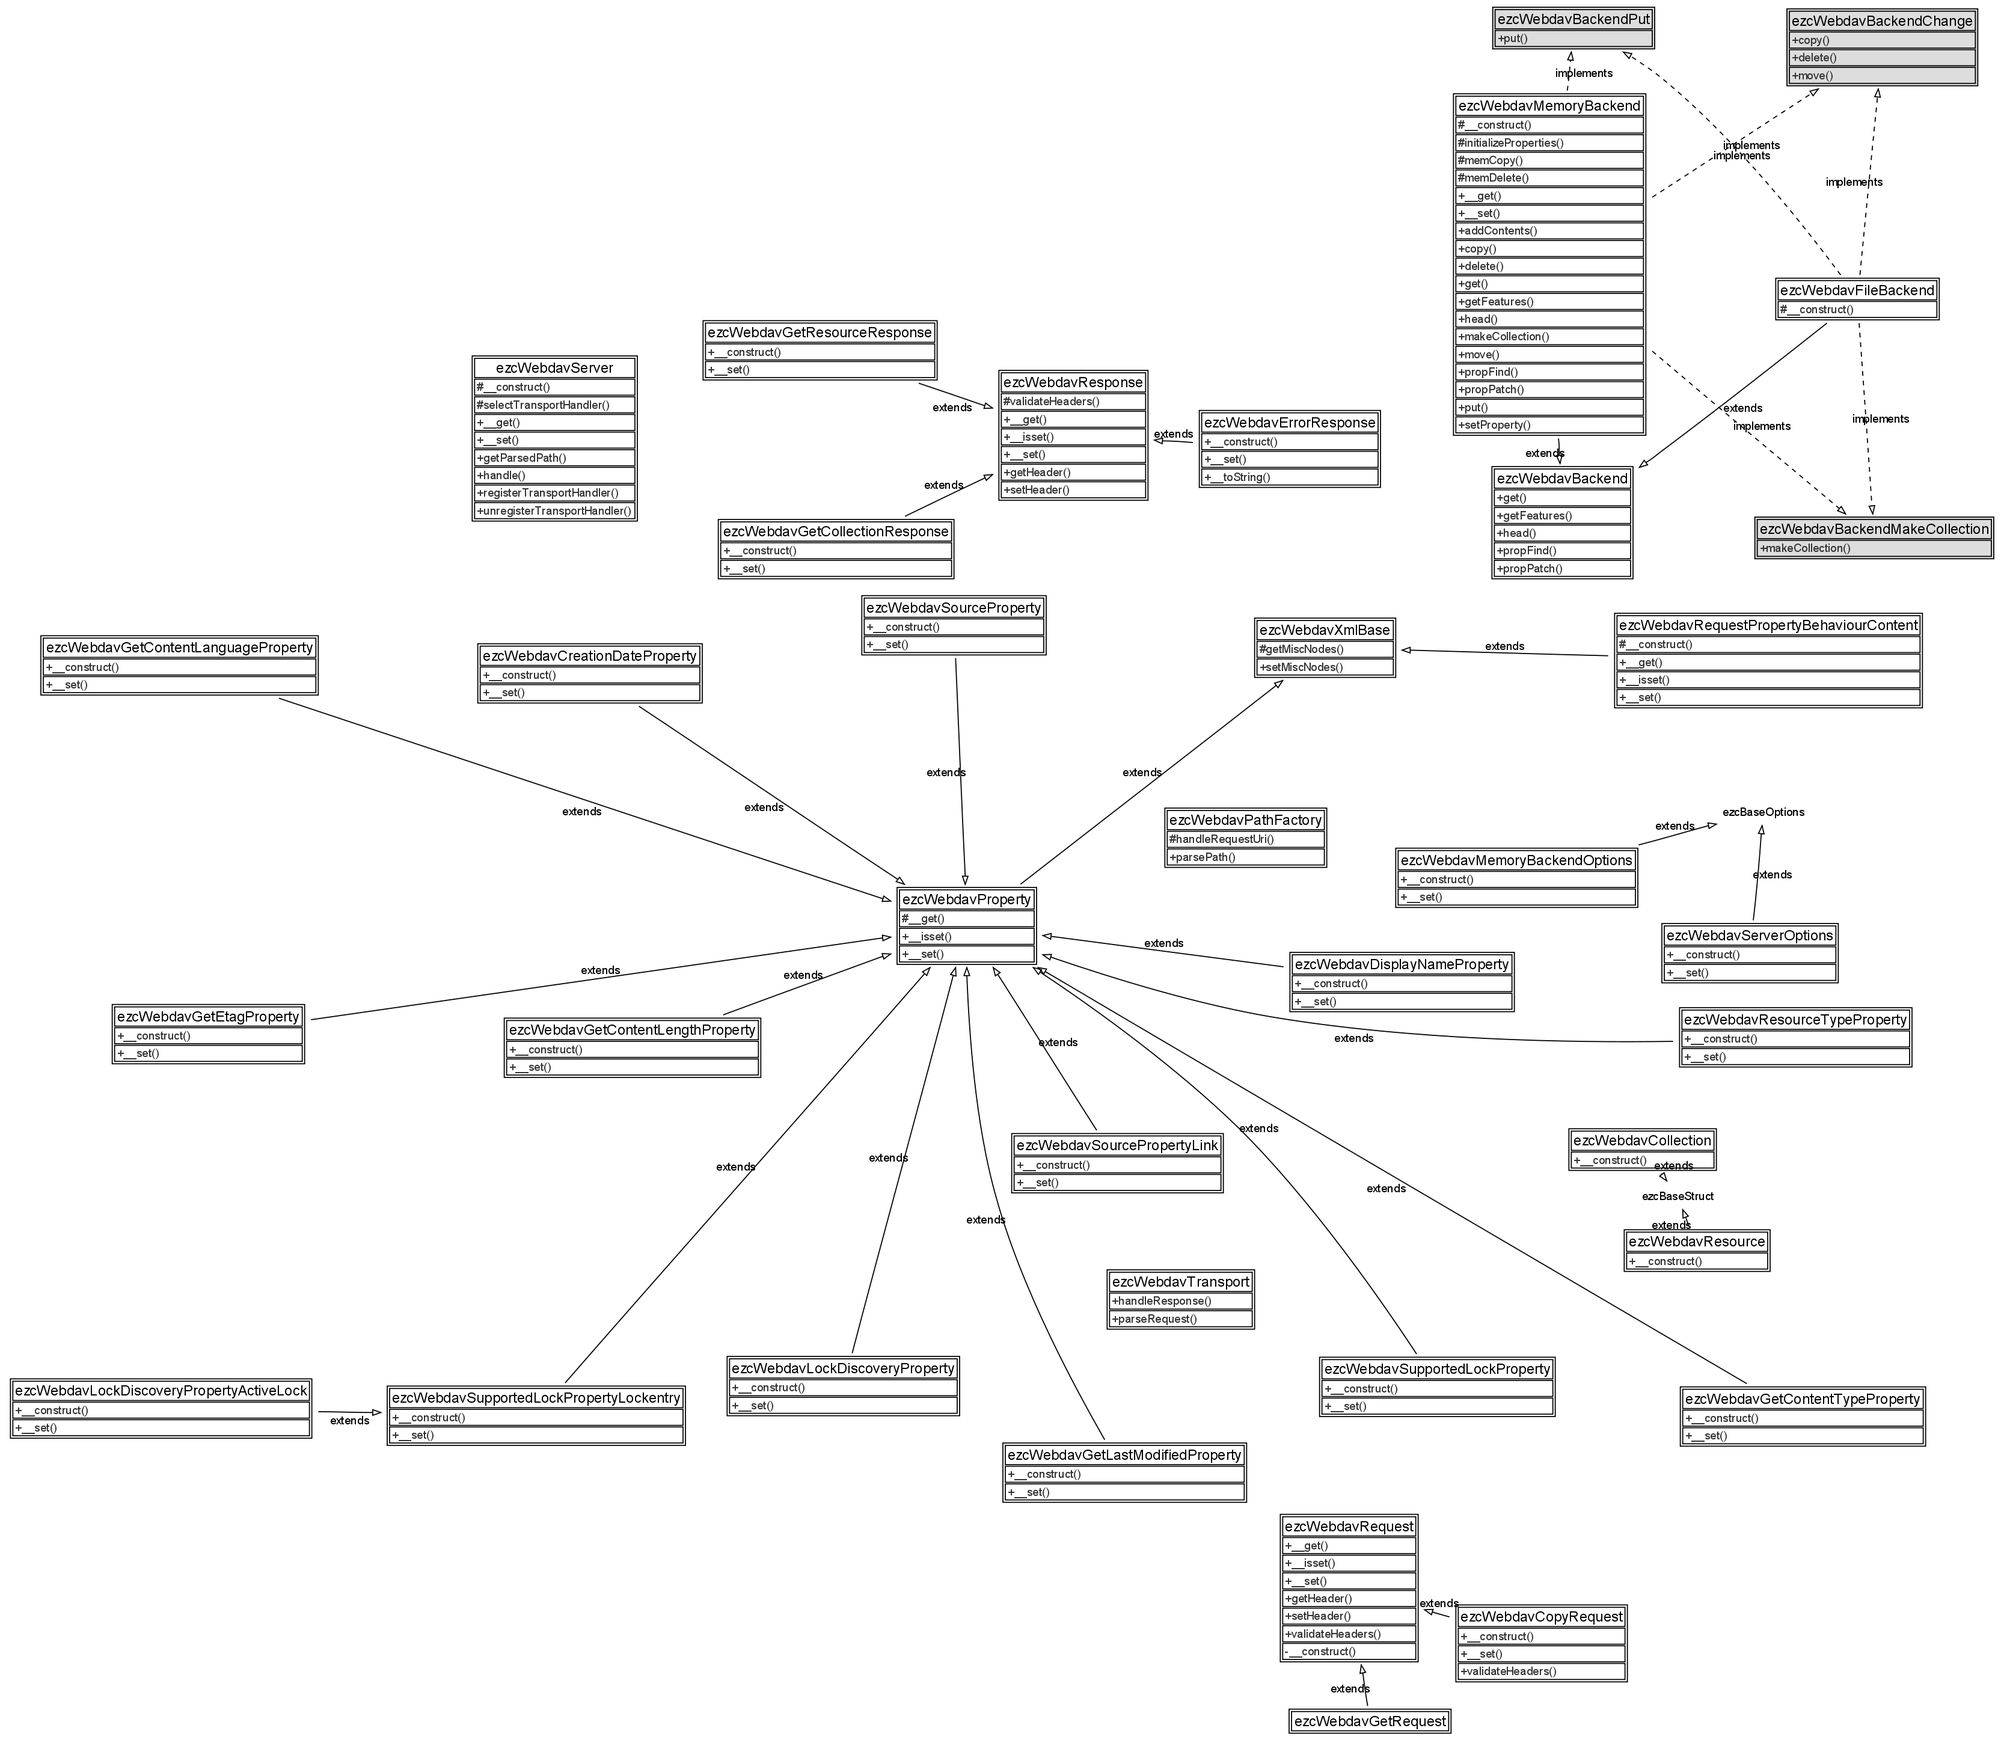
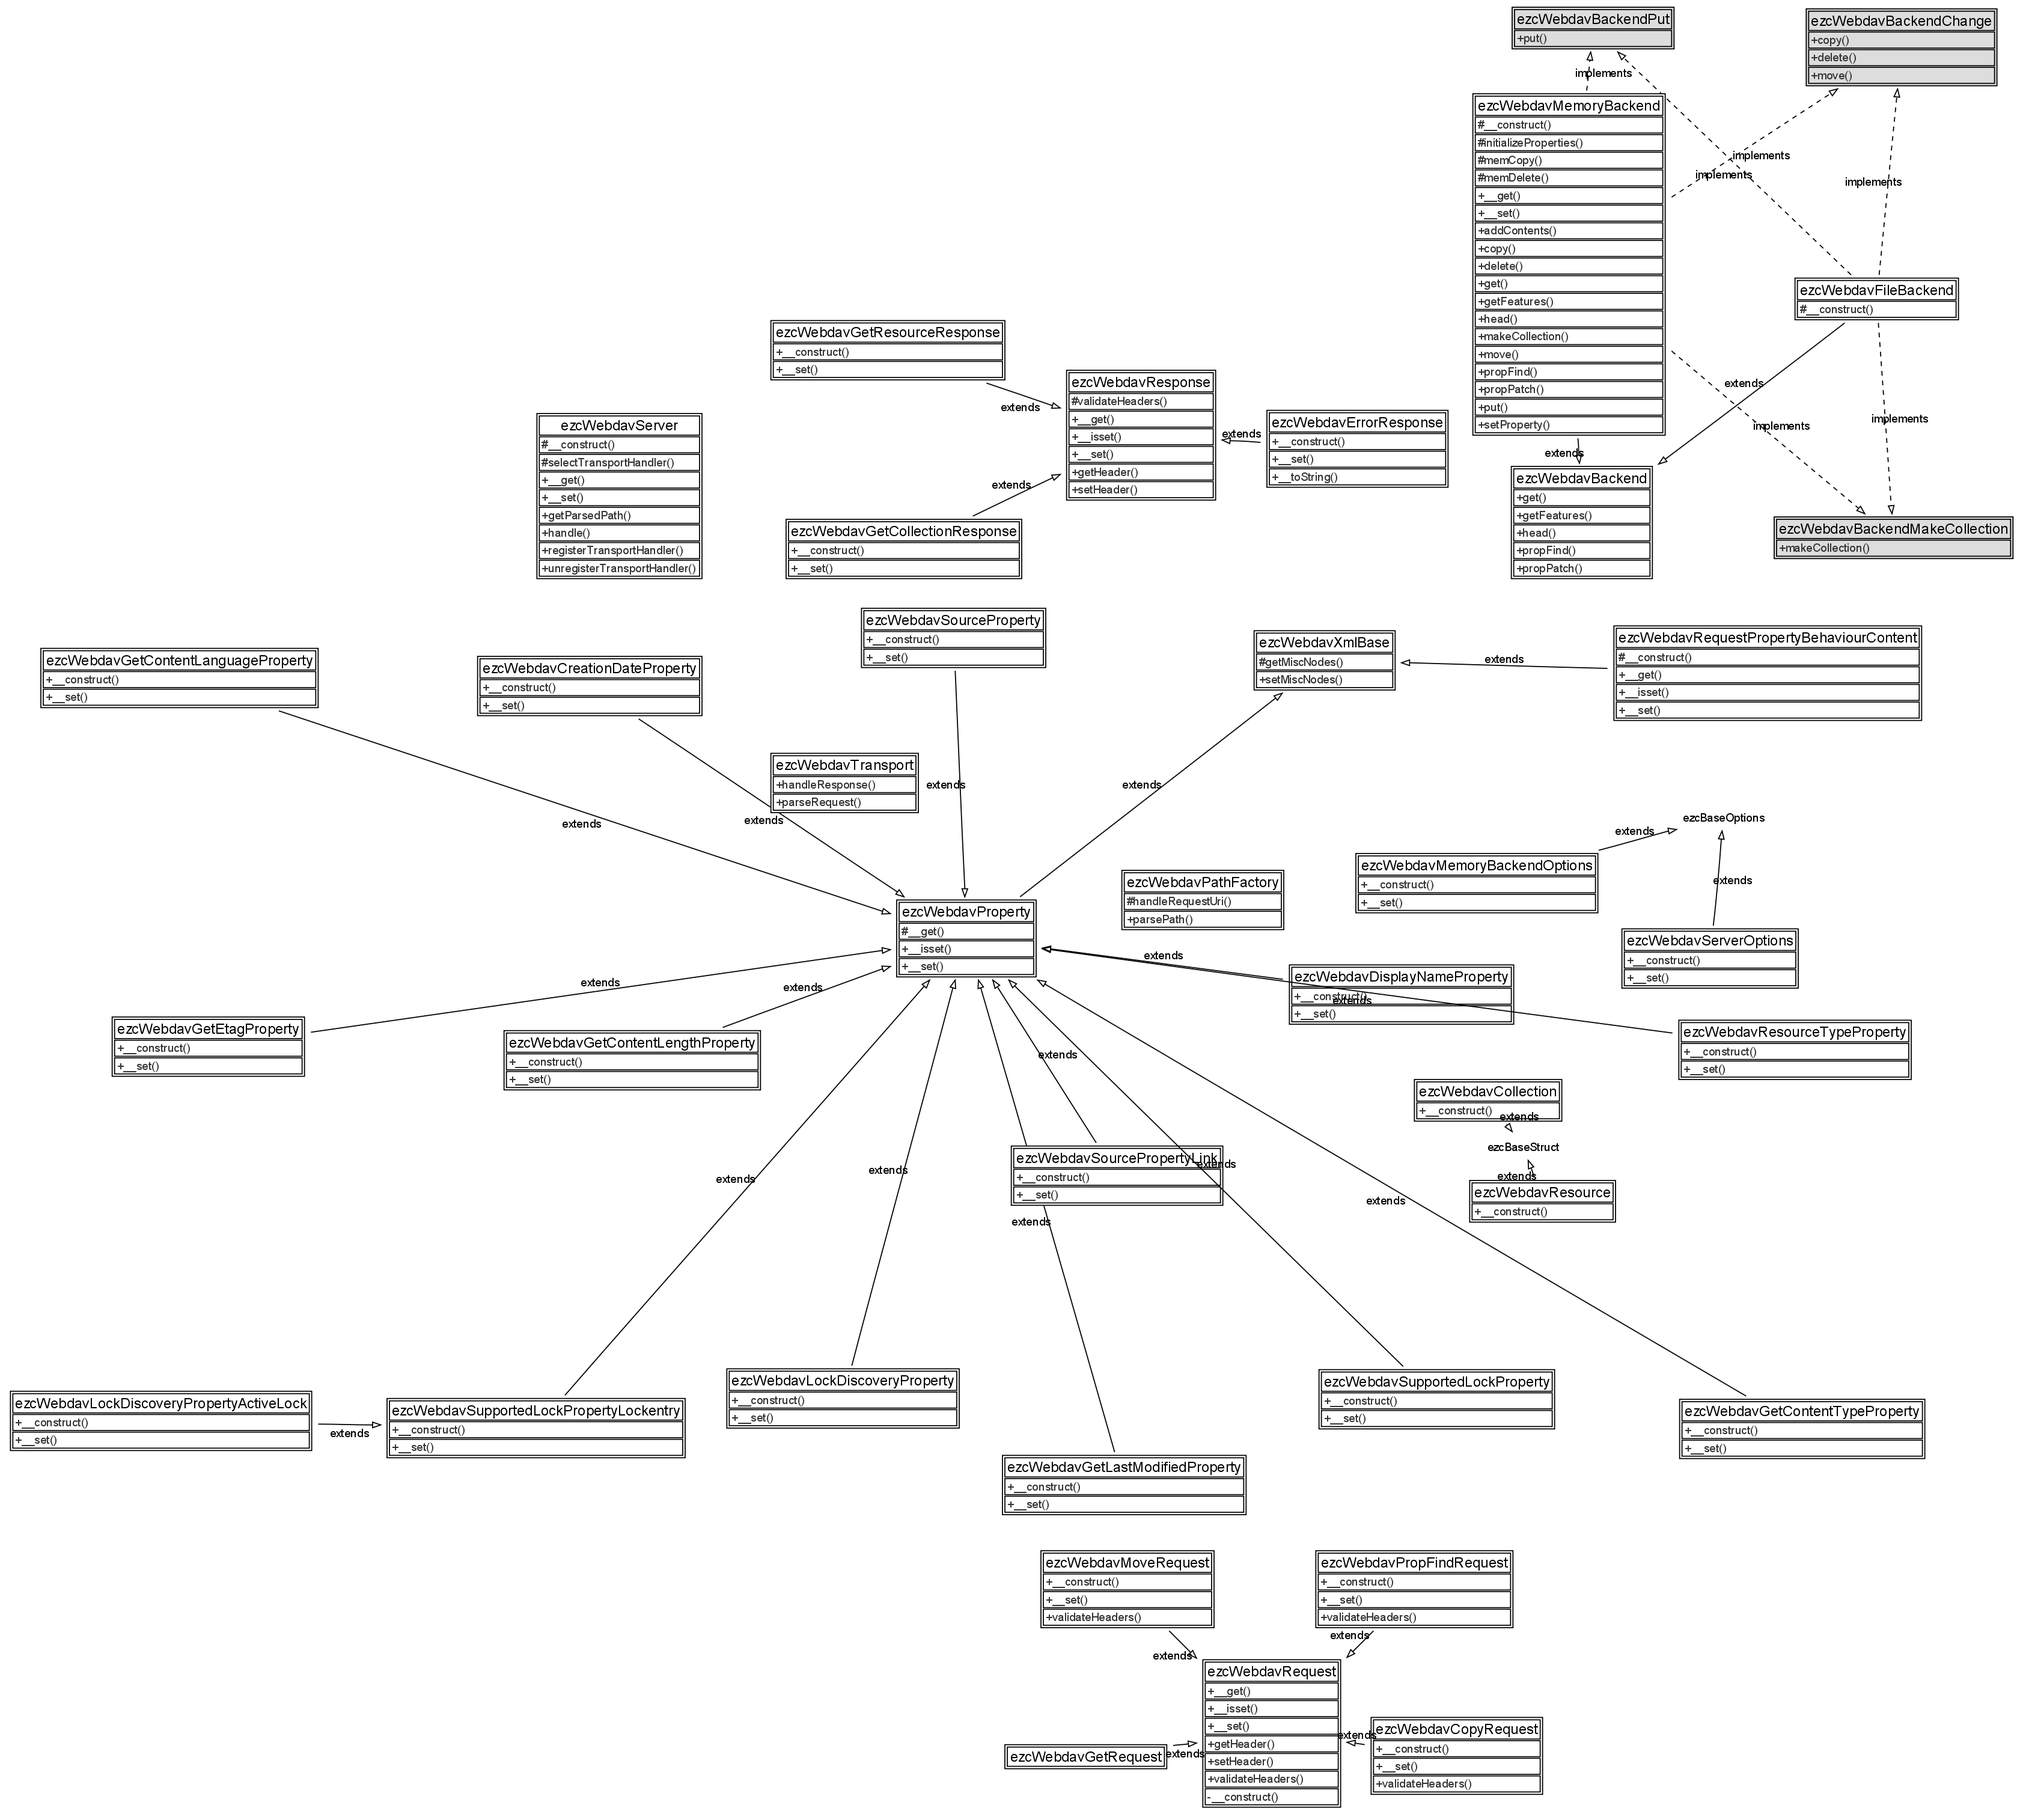
- Added MOVE request.
git-svn-id: http://svn.ez.no/svn/ezcomponents/trunk@6090 bc0e7bdc-f0fc-0310-8ff6-f601c06e1256

diff --git a/Webdav/src/request/move.php b/Webdav/src/request/move.php
@@ -1,0 +1,142 @@
+<?php
+/**
+ * File containing the ezcWebdavMoveRequest class.
+ *
+ * @package Webdav
+ * @version //autogentag//
+ * @copyright Moveright (C) 2005-2007 eZ systems as. All rights reserved.
+ * @license http://ez.no/licenses/new_bsd New BSD License
+ */
+
+/**
+ * Request class generated by a COPY request.
+ * This request represents the WebDAV COPY action.
+ *
+ * Required headers for this request are:
+ * - Destination
+ *
+ * Optional headers for this request are:
+ * - Overwrite (default: 'T')
+ * - Depth (default: ezcWebdavRequest::DEPTH_ZERO)
+ * 
+ * @package Webdav
+ * @version //autogen//
+ * @copyright Moveright (C) 2005-2007 eZ systems as. All rights reserved.
+ * @author  
+ * @license http://ez.no/licenses/new_bsd New BSD License
+ *
+ * @property ezcWebdavRequestPropertyBehaviourContent $propertyBehaviour
+ *           Contains the <propertybehavior /> element, if submitted with the
+ *           request. If not, this property is null.
+ */
+class ezcWebdavMoveRequest extends ezcWebdavRequest
+{
+    /**
+     * Creates a new COPY request object.
+     * Sets the defaults for the optional headers for this request.
+     * 
+     * @param string $requestUri
+     * @param string $destination
+     * @return void
+     */
+    public function __construct( $requestUri, $destination )
+    {
+        // Set from constructor values
+        parent::__construct( $requestUri );
+        $this->headers['Destination'] = $destination;
+
+        // Set header defaults
+        $this->headers['Overwrite'] = 'T';
+        $this->headers['Depth']     = ezcWebdavRequest::DEPTH_ZERO;
+
+        // Create properties
+        $this->properties['propertyBehaviour'] = null;
+    }
+
+    /**
+     * Sets a property.
+     * This method is called when an property is to be set.
+     * 
+     * @param string $propertyName The name of the property to set.
+     * @param mixed $propertyValue The property value.
+     * @ignore
+     *
+     * @throws ezcBasePropertyNotFoundException
+     *         if the given property does not exist.
+     * @throws ezcBaseValueException
+     *         if the value to be assigned to a property is invalid.
+     * @throws ezcBasePropertyPermissionException
+     *         if the property to be set is a read-only property.
+     */
+    public function __set( $propertyName, $propertyValue )
+    {
+        switch ( $propertyName )
+        {
+            case 'propertyBehaviour':
+                if ( ( $propertyValue instanceof ezcWebdavRequestPropertyBehaviourContent ) === false && $propertyValue !== null )
+                {
+                    throw new ezcBaseValueException( $propertyName, $propertyValue, 'ezcWebdavRequestPropertyBehaviourContent' );
+                }
+                break;
+            default:
+                parent::__set( $propertyName, $propertyValue );
+        }
+        $this->properties[$propertyName] = $propertyValue;
+    }
+
+    /**
+     * Validates the headers set in this request.
+     * This method validates that all required headers are available and that
+     * all feasible headers for this request have valid values.
+     *
+     * @return void
+     *
+     * @throws ezcWebdavMissingHeaderException
+     *         if a required header is missing.
+     * @throws ezcWebdavInvalidHeaderException
+     *         if a header is present, but its content does not validate.
+     */
+    public function validateHeaders()
+    {
+        if ( isset( $this->headers['Destination'] ) === false )
+        {
+            throw new ezcWebdavMissingHeaderException( 'Destination' );
+        }
+
+        if ( isset( $this->headers['Overwrite'] ) === false )
+        {
+            throw new ezcWebdavMissingHeaderException( 'Overwrite' );
+        }
+
+        if ( $this->headers['Overwrite'] !== 'T' && $this->headers['Overwrite'] !== 'F' )
+        {
+            throw new ezcWebdavInvalidHeaderException(
+                'Overwrite',
+                $this->headers['Overwrite'],
+                "'T' or 'F'"
+            );
+        }
+        
+        if ( isset( $this->headers['Depth'] ) === false )
+        {
+            throw new ezcWebdavMissingHeaderException( 'Depth' );
+        }
+
+        if ( $this->headers['Depth'] !== ezcWebdavRequest::DEPTH_ZERO
+            && $this->headers['Depth'] !== ezcWebdavRequest::DEPTH_ONE 
+            && $this->headers['Depth'] !== ezcWebdavRequest::DEPTH_INFINITY )
+        {
+
+            throw new ezcWebdavInvalidHeaderException(
+                'Depth',
+                $this->headers['Depth'],
+                'ezcWebdavRequest::DEPTH_ZERO, ezcWebdavRequest::DEPTH_ONE or ezcWebdavRequest::DEPTH_INFINITY'
+            );
+        }
+
+        // Validate common HTTP/WebDAV headers
+        parent::validateHeaders();
+    }
+}
+
+?>

diff --git a/Webdav/tests/request_move_test.php b/Webdav/tests/request_move_test.php
@@ -1,0 +1,117 @@
+<?php
+/**
+ * Basic test cases for the path factory class.
+ *
+ * @package Webdav
+ * @subpackage Tests
+ * @version //autogentag//
+ * @copyright Moveright (C) 2005-2007 eZ systems as. All rights reserved.
+ * @license http://ez.no/licenses/new_bsd New BSD License
+ */
+
+/**
+ * Reqiuire base test
+ */
+require_once 'request_test.php';
+
+/**
+ * Tests for ezcWebdavPathFactory class.
+ * 
+ * @package Webdav
+ * @subpackage Tests
+ */
+class ezcWebdavMoveRequestTest extends ezcWebdavRequestTestCase
+{
+    public static function suite()
+    {
+		return new PHPUnit_Framework_TestSuite( __CLASS__ );
+    }
+
+    protected function setUp()
+    {
+        $this->className = 'ezcWebdavMoveRequest';
+        $this->constructorArguments = array(
+            '/foo', '/bar'
+        );
+        $this->defaultValues = array(
+            'propertyBehaviour' => null,
+        );
+        $this->workingValues = array(
+            'propertyBehaviour' => new ezcWebdavRequestPropertyBehaviourContent(),
+        );
+        $this->failingValues = array(
+            'propertyBehaviour' => array(
+                23,
+                23.34,
+                true,
+                false,
+                array( 23, 42 ),
+                new stdClass(),
+            ),
+        );
+    }
+
+    public function testValidateHeadersSuccess()
+    {
+        $req = new ezcWebdavMoveRequest( '/foo', '/bar' );
+
+        $req->setHeader( 'Destination', '/foo/bar' );
+        $req->validateHeaders();
+
+        $req->setHeader( 'Overwrite', 'F' );
+        $req->validateHeaders();
+        
+        $req->setHeader( 'Overwrite', 'T' );
+        $req->validateHeaders();
+
+        $req->setHeader( 'Depth', ezcWebdavMoveRequest::DEPTH_ONE );
+        $req->validateHeaders();
+
+        $req->setHeader( 'Depth', ezcWebdavMoveRequest::DEPTH_INFINITY );
+        $req->validateHeaders();
+
+        $req->setHeader( 'Depth', ezcWebdavMoveRequest::DEPTH_ZERO );
+        $req->validateHeaders();
+    }
+
+    public function testValidateHeadersFailure()
+    {
+        $req = new ezcWebdavMoveRequest( '/foo', '/bar' );
+
+        $req->setHeader( 'Overwrite', null );
+        try
+        {
+            $req->validateHeaders();
+            $this->fail( 'Exception not thrown on missing Overwrite header.' );
+        }
+        catch ( ezcWebdavMissingHeaderException $e ) {}
+        
+        $req->setHeader( 'Overwrite', 'A' );
+        try
+        {
+            $req->validateHeaders();
+            $this->fail( 'Exception not thrown on invalid Overwrite header.' );
+        }
+        catch ( ezcWebdavInvalidHeaderException $e ) {}
+        // Fix this problem to test others
+        $req->setHeader( 'Overwrite', 'T' );
+        
+        $req->setHeader( 'Depth', null );
+        try
+        {
+            $req->validateHeaders();
+            $this->fail( 'Exception not thrown on missing Depth header.' );
+        }
+        catch ( ezcWebdavMissingHeaderException $e ) {}
+
+        $req->setHeader( 'Depth', 'A' );
+        try
+        {
+            $req->validateHeaders();
+            $this->fail( 'Exception not thrown on invalid Depth header.' );
+        }
+        catch ( ezcWebdavInvalidHeaderException $e ) {}
+    }
+}
+
+?>

diff --git a/Webdav/src/webdav_autoload.php b/Webdav/src/webdav_autoload.php
@@ -44,7 +44,9 @@ return array(
     'ezcWebdavLockDiscoveryPropertyActiveLock' => 'Webdav/properties/lockdiscovery_activelock.php',
     'ezcWebdavMemoryBackend'                   => 'Webdav/backend/memory.php',
     'ezcWebdavMemoryBackendOptions'            => 'Webdav/options/backend_memory_options.php',
+    'ezcWebdavMoveRequest'                     => 'Webdav/request/move.php',
     'ezcWebdavPathFactory'                     => 'Webdav/path_factory.php',
+    'ezcWebdavPropFindRequest'                 => 'Webdav/request/propfind.php',
     'ezcWebdavRequestPropertyBehaviourContent' => 'Webdav/request/content/property_behaviour.php',
     'ezcWebdavResource'                        => 'Webdav/structs/resource.php',
     'ezcWebdavResourceTypeProperty'            => 'Webdav/properties/resourcetype.php',

diff --git a/Webdav/tests/suite.php b/Webdav/tests/suite.php
@@ -36,6 +36,7 @@ require_once 'property_supportedlock_lockentry_test.php';
 require_once 'property_supportedlock_test.php';
 
 require_once 'request_copy_test.php';
+require_once 'request_move_test.php';
 
 require_once 'request_content_property_behaviour_test.php';
 
@@ -79,6 +80,7 @@ class ezcWebdavSuite extends PHPUnit_Framework_TestSuite
         $this->addTest( ezcWebdavSupportedLockPropertyLockentryTest::suite() );
         $this->addTest( ezcWebdavSupportedLockPropertyTest::suite() );
         $this->addTest( ezcWebdavCopyRequestTest::suite() );
+        $this->addTest( ezcWebdavMoveRequestTest::suite() );
         $this->addTest( ezcWebdavRequestPropertyBehaviourContentTest::suite() );
     }
 
